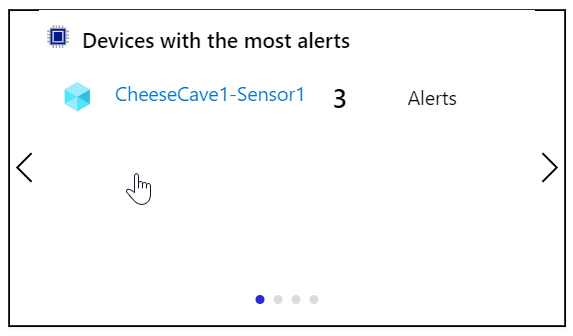
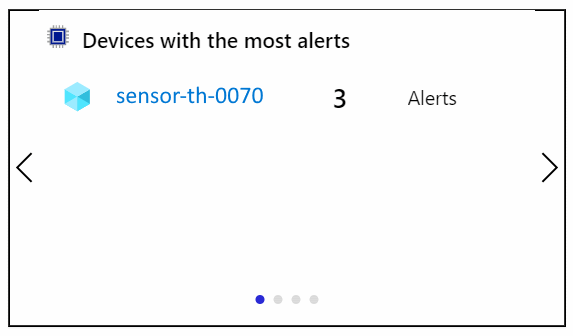
Lab 19 - updated graphic to show correct device id

diff --git a/Instructions/Labs/LAB_AK_19-azure-security-center-for-iot.md b/Instructions/Labs/LAB_AK_19-azure-security-center-for-iot.md
@@ -850,8 +850,7 @@ At this point, your console app will have sent enough telemetry to trigger the C
 
     ![Devices with the most alerts tile](media/LAB_AK_19-devices-with-most-alerts-tile.png)
 
-    > [!NOTE]
-    > It can take between 10 and 15 minutes for alerts to be displayed on the dashboard.
+    > **Note**: It can take between 10 and 15 minutes for alerts to be displayed on the dashboard.
 
 1. Under **Threat detection**, click the **Devices with the most alerts** tile.
 
